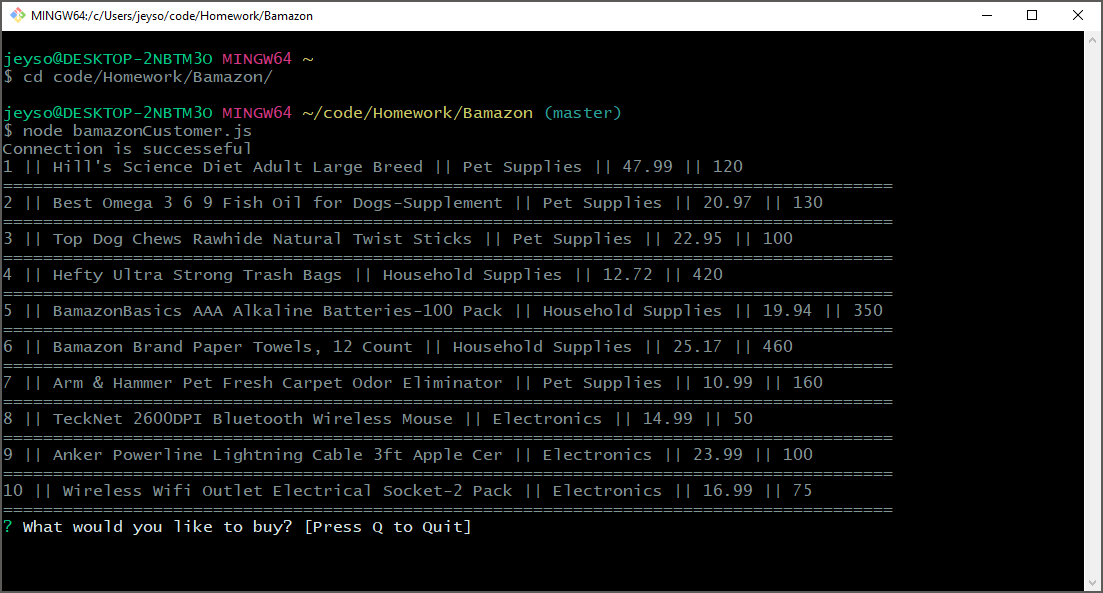
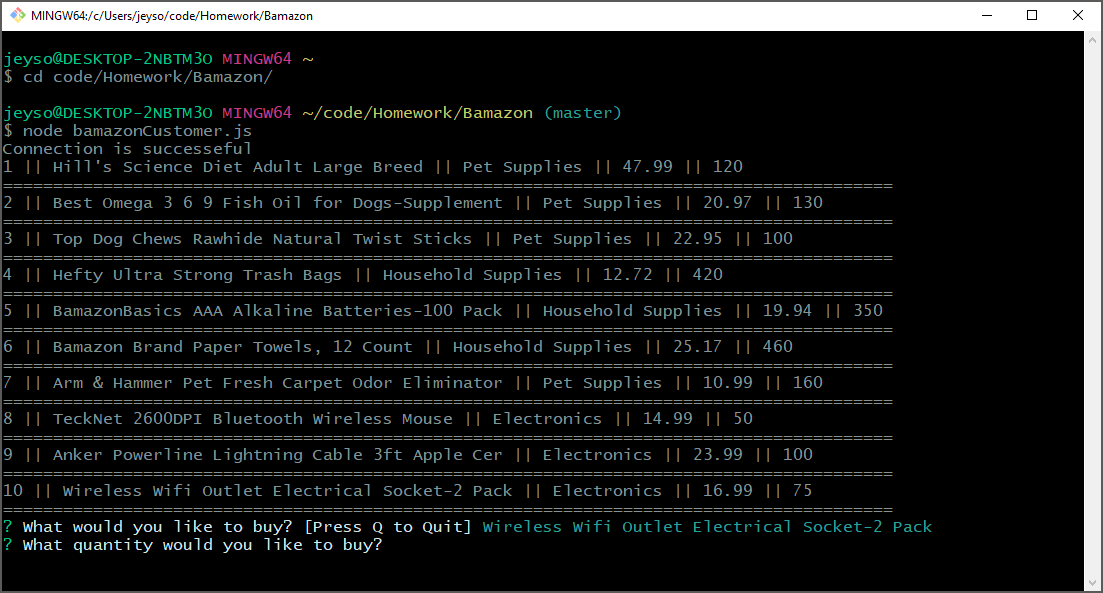
updated image files for Readme

Changed region(s): [[0.4316, 0.8803, 0.8631, 0.9106], [0.0, 0.9106, 0.3391, 0.941]]

diff --git a/README.md b/README.md
@@ -27,7 +27,7 @@ Once they have purchased items the database will update with the new amount avai
 
 <img src="images/image2.png">
 
-3. Currently there are 75 "Wifi Outlet Electrical Sockets". Choose the number you would like to puchase and hit enter. I chose 10 for this example. Immediately the table is revised to show that there are now 65 Wifi outlets left.
+3. Currently there are 75 "Wifi Outlet Electrical Sockets" (item #10 in the table). Choose the number you would like to puchase and hit enter. I typed "10" for this example. Immediately the table is revised to show that there are now 65 Wifi outlets left.
 
 <img src="images/image3.png">
 
